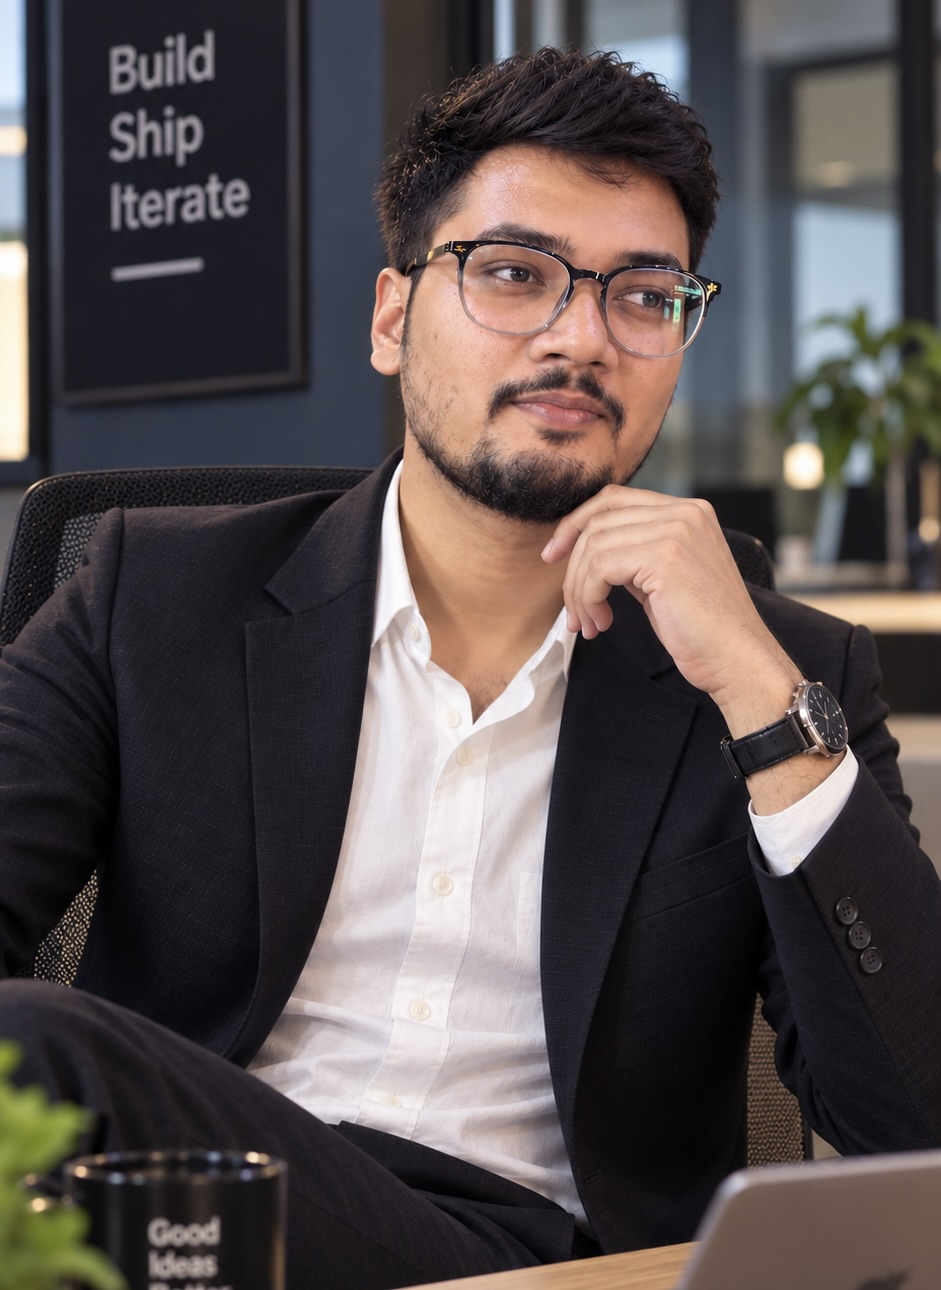
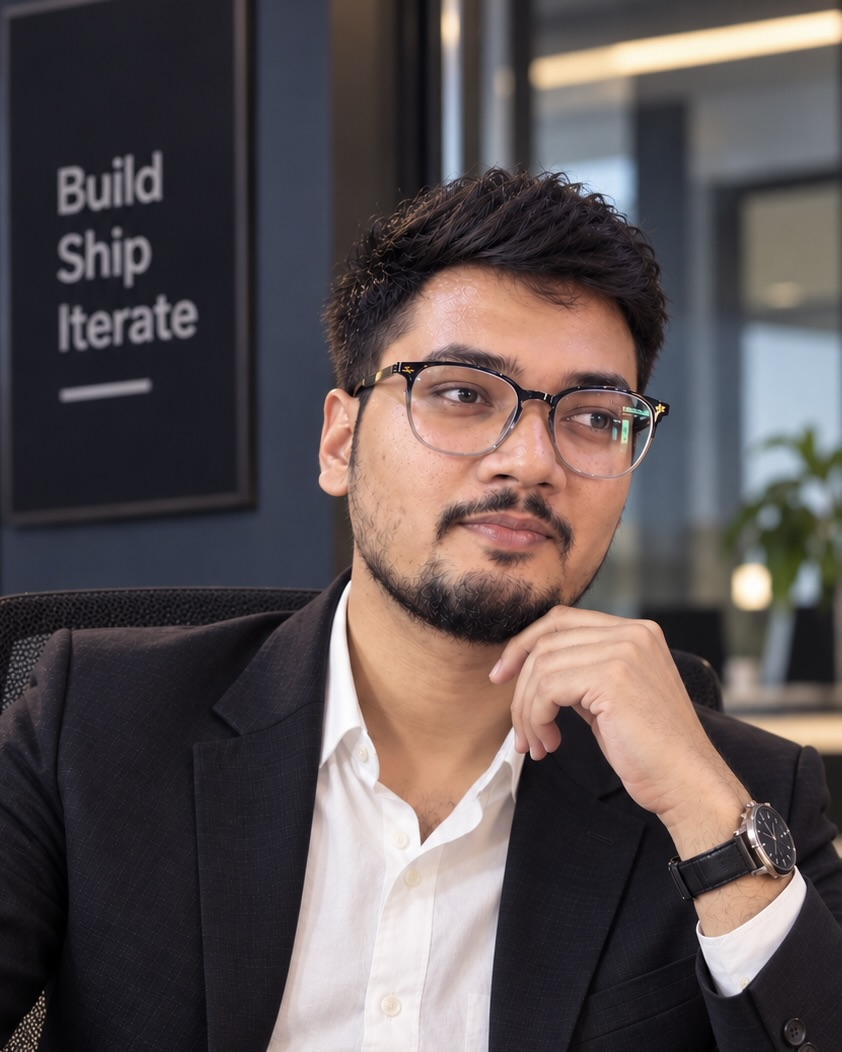
ui updated

diff --git a/src/app/about/page.tsx b/src/app/about/page.tsx
@@ -25,6 +25,8 @@ export default function AboutPage() {
             src="/images/self.jpeg"
             alt={brand.founder}
             fill
+            sizes="(max-width: 768px) 10rem, 16rem"
+            priority
             className="object-cover"
           />
         </div>
